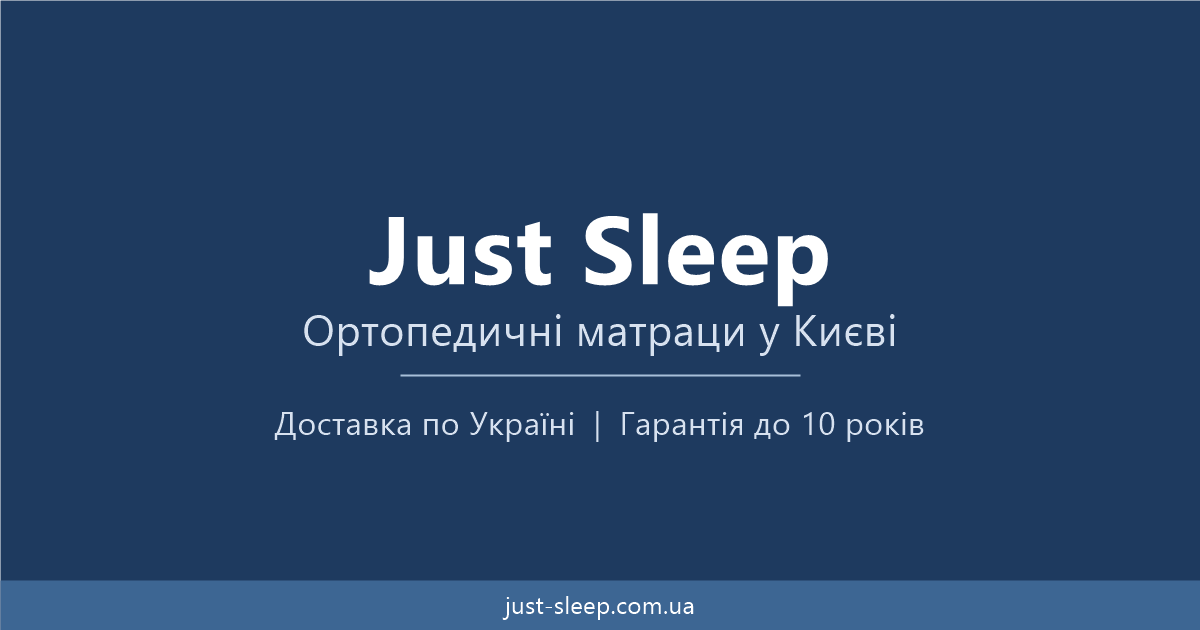
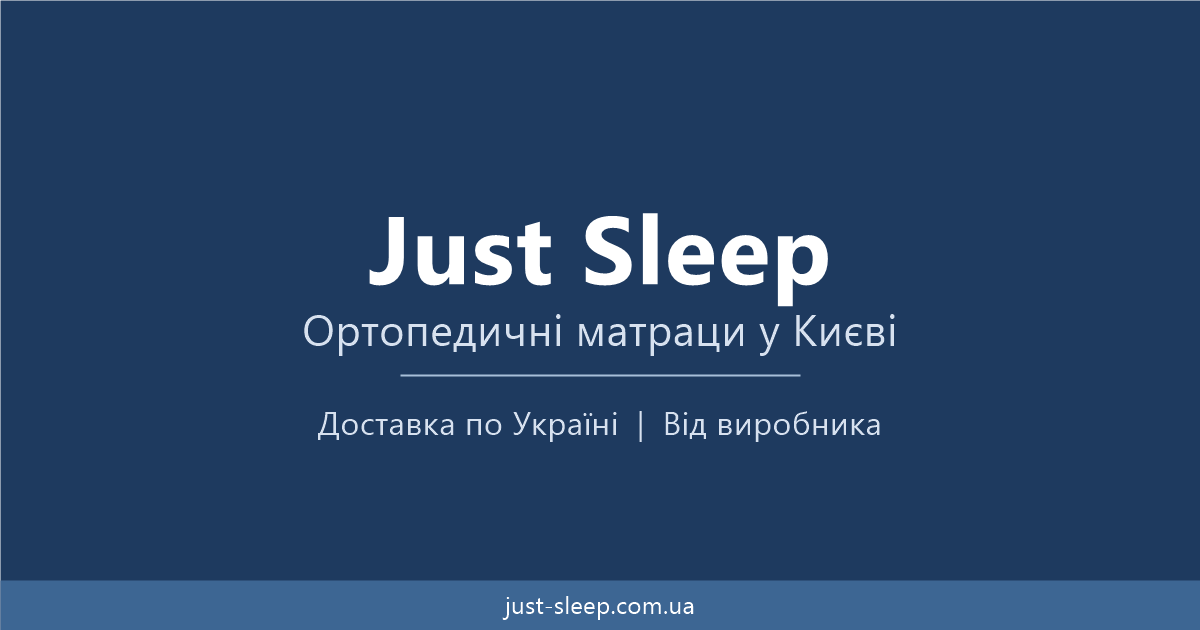
Replace warranty claim with manufacturer tagline across all SEO texts and OG image

Changed region(s): [[0.2158, 0.6635, 0.7708, 0.6937]]

diff --git a/index.html b/index.html
@@ -5,7 +5,7 @@
     <meta name="viewport" content="width=device-width, initial-scale=1.0" />
 
     <title>Just Sleep — Ортопедичні матраци у Києві</title>
-    <meta name="description" content="Інтернет-магазин ортопедичних матраців Just Sleep. Пружинні, безпружинні та дитячі матраци з доставкою по Україні. Гарантія до 10 років." />
+    <meta name="description" content="Інтернет-магазин ортопедичних матраців Just Sleep. Пружинні, безпружинні та дитячі матраци від виробника з доставкою по Україні." />
     <meta name="robots" content="index, follow" />
     <meta name="theme-color" content="#1e3a5f" />
 

diff --git a/src/utils/seoData.js b/src/utils/seoData.js
@@ -1,7 +1,7 @@
 export const SITE_NAME = "Just Sleep";
 export const BASE_URL = (import.meta.env.VITE_SITE_URL || "https://just-sleep.com.ua").replace(/\/$/, "");
 export const DEFAULT_OG_IMAGE = `${BASE_URL}/og-image.png`;
-export const DEFAULT_DESCRIPTION = "Інтернет-магазин ортопедичних матраців Just Sleep. Пружинні, безпружинні та дитячі матраци з доставкою по Україні. Гарантія до 10 років.";
+export const DEFAULT_DESCRIPTION = "Інтернет-магазин ортопедичних матраців Just Sleep. Пружинні, безпружинні та дитячі матраци від виробника з доставкою по Україні.";
 
 export const PAGE_SEO = {
   home: {